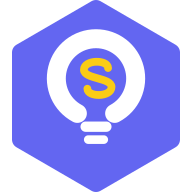
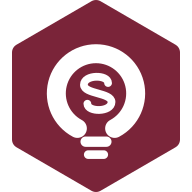
feat(brand): two colours, and the mark is centred on its mass
The mark is one hue and white now: maroon #7A2439 badge, white glyph, and the S filament takes
the glyph colour. In MWIT yellow the filament read as `warning`, a semantic colour the admin
panel reserves for state - a mark cannot borrow a status meaning. Ink and muted in the lockups
move to the token values (#1C1B1F, #5D5F65) so the wordmark and the UI agree.

Centring follows the operator's catch: the glyph's bounding box looked centred at translate
y=58 while its ink centroid sat 10.6 units high, so it read as floating. At y=68 the measured
centroid is 62.8 against the hexagon's 63.5 - 0.7 units high, which is centred in mass.

Every derived asset came from the single source in brand/ (18 files across admin-panel,
ranking-web, cms/server and cmsranking), and `bun run icons:check` confirms brand/ and the
committed copies still agree. Gates: brand and ranking logo tests 11 passed.

diff --git a/brand/README.md b/brand/README.md
@@ -17,7 +17,15 @@ need no Node at build, and `make icons-check` fails when any of them drifts from
 | `logo-mono-dark.svg` | One-ink lockup for light backgrounds. |
 | `logo-mono-light.svg` | One-ink lockup for dark backgrounds. |
 
-Brand colours: indigo `#6366F1`, ink `#18181B`, muted `#71717A`, MWIT yellow `#FACC15`.
+Brand colours: maroon `#7A2439`, ink `#1C1B1F`, muted `#5D5F65`, white `#FFFFFF`.
+
+The mark is **two colours only** — a maroon hexagon and a white glyph, with the `S` filament in the
+glyph colour so it stays visible (in the old yellow it would read as the `warning` status colour the
+admin panel now reserves). On a dark surface the mark inverts to a `#F8ACB7` badge with a `#7A2439`
+glyph, because the maroon badge alone measures 1.84:1 against `#171613`.
+
+The glyph is centred on its **ink mass**, not its bounding box: at the old offset the box looked
+centred while the mass sat 10.6 units high, which read as floating.
 
 ## Derive the icons
 
